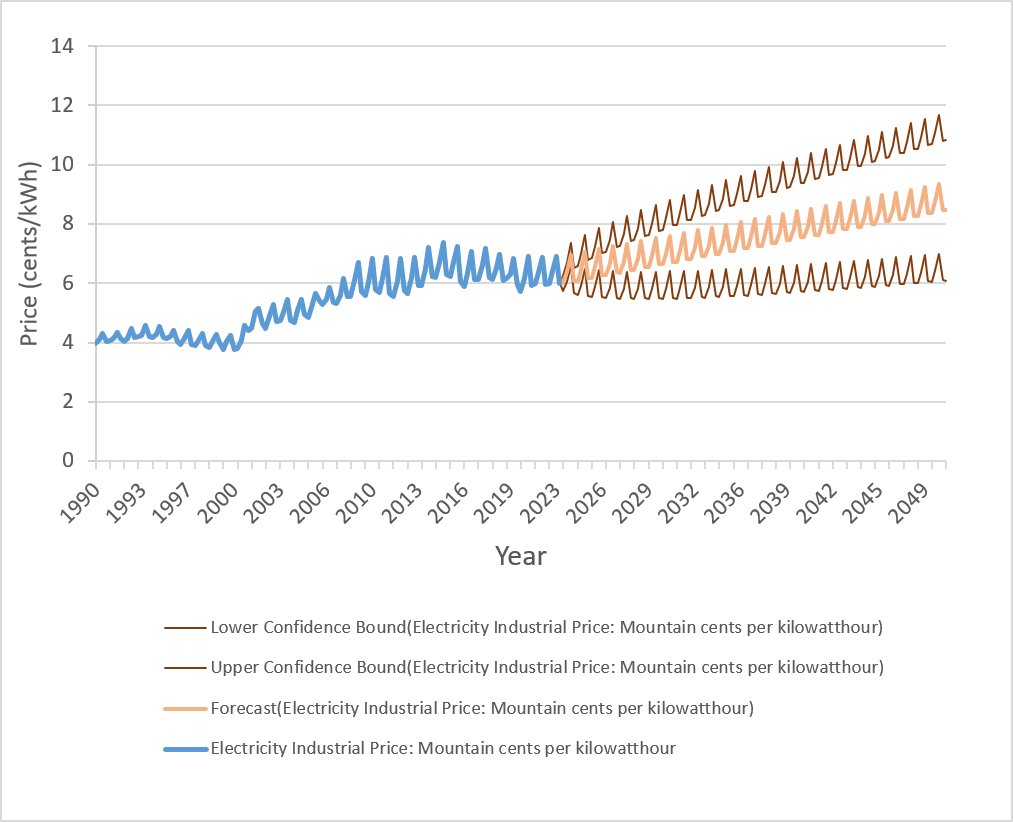
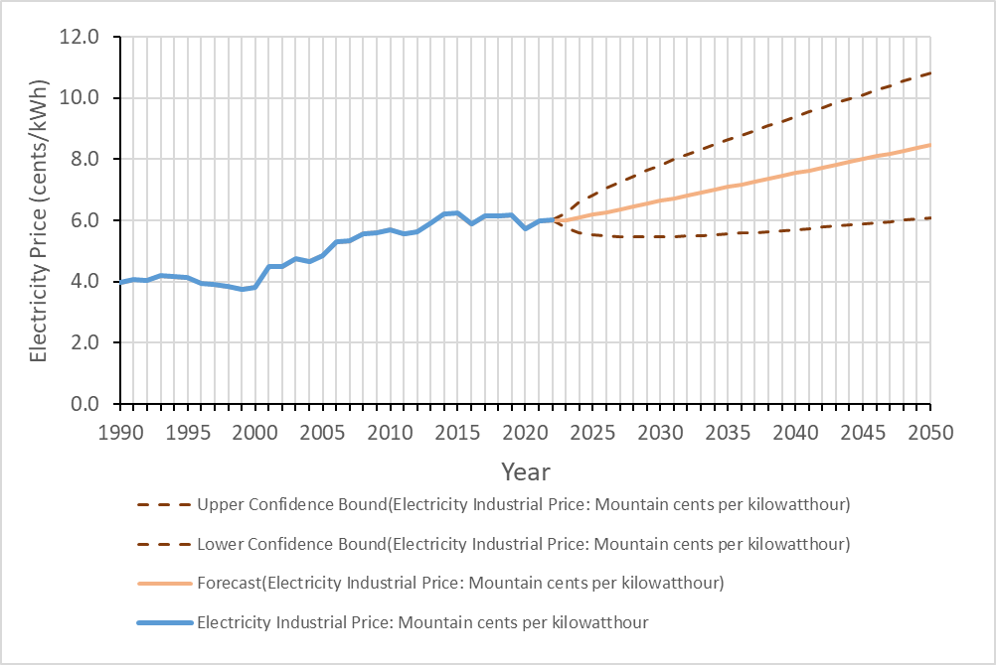
in uncertainties for cost model

Changed region(s): [[0.0, 0.0301, 0.9649, 0.7218], [0.1245, 0.7519, 0.8715, 0.9624]]

diff --git a/templates/chap4.tex b/templates/chap4.tex
@@ -340,11 +340,44 @@ Contract rate above wholesale & 50\% & \citep{pnm_public_2014} \\ \hline
 
 \subsubsection{Electricity Price}
 
-Electricity prices are referenced from the industrial electricity price forecast for the Mountain region (includes New Mexico) provided by the EIA in their \acrlong{steo} (\acrshort{steo}) projections out to 2023 \citep{eia_short-term_2021}. While industrial pricing differs slightly from wholesale, it more closely mimics wholesale prices than residential or commercial rates and was therefore selected as a wholesale proxy for the cost model. The Forecast Tool in Excel projected prices out to 2050 (Figure \ref{fig:electricity_pricing}). This tool uses the Exponential Triple Smoothing algorithm with seasonality patterns to forecast time series data \citep{microsoft_forecastets_2021}. For the deterministic cost model, electricity prices are directly sampled from the forecast and multiplied by the PPA \textit{Contract rate above wholesale} value listed in Table \ref{tab:cm_econ_params} for any year when capacity increases. This simulates amending the PPA with a local utility whenever new capacity is available for power sales. Electricity pricing is held flat compared to the previous year when no capacity change occurs.
+Electricity prices are referenced from the industrial electricity price forecast for the Mountain region (including New Mexico) provided by the EIA in their \acrlong{steo} (\acrshort{steo}) projections out to 2023 \citep{eia_short-term_2021}. While industrial pricing differs slightly from wholesale, it more closely mimics wholesale prices than residential or commercial rates and was therefore selected as a wholesale proxy for the cost model. The Forecast Tool in Excel projected prices out to 2050 with 95\% confidence bounds (Figure \ref{fig:electricity_pricing}) using the Exponential Triple Smoothing algorithm for time series data \citep{microsoft_forecastets_2021}. For the deterministic cost model, electricity prices are directly sampled from the forecast for any year when capacity increases and multiplied by the PPA \textit{Contract rate above wholesale} value listed in Table \ref{tab:cm_econ_params}. This simulates amending the PPA with a local utility whenever new capacity is available for power sales. Electricity pricing is held flat compared to the previous year when no capacity change occurs.
 
 \begin{figure}[!htp]
 \centering
-\includegraphics[width=\textwidth]{templates/images/Figure-EIA_Electricity_Forecast.png}
-\caption[Electricity price forecast]{Price of electricity forecast based on EIA Short-Term Energy Outlook \protect\citep{eia_short-term_2021}. A seasonal signal is visible due to the quarterly sampling of the data.}
+\includegraphics[width=.8\textwidth]{templates/images/Figure-EIA_Electricity_Forecast.png}
+\caption[Electricity price forecast]{Price of electricity from the EIA Short-Term Energy Outlook \protect\citep{eia_short-term_2021}, forecast out to 2050.}
 \label{fig:electricity_pricing}
 \end{figure}
+
+\subsection{Uncertainties}
+
+The model described thus far takes a deterministic approach; parameter values are fixed to their most-likely values when performing the NPV calculation. A probabilistic approach replaces these static values with distributions and repeatedly samples from those distributions to capture an ensemble of results. This Monte Carlo-style simulation can provide a more realistic assessment of system performance.
+
+However, all variables in the model have some underlying uncertainty, and defining distributions for every variable would add significant complexity to the model with diminishing returns. Variable selection can be performed using sensitivity testing to target the most impactful variables for uncertainty characterization. This helps balance model complexity with representativeness of the physical system. 
+
+Recognizing the full probable range of possible variable values and the scenarios that trigger them requires a deep understanding of the scientific, engineering, and socio-technical elements influencing a system. For geothermal, subsurface characterization uncertainties play an important role, but so do uncertainties tied to public policy and market dynamics. The limited focus on the issues listed below should be considered fit-for-purpose for this thesis. Further analysis and discussion with subject matter experts on the local, state, and national levels is advised for similar analysis performed for an active geothermal project.
+
+\subsubsection{Carbon Taxation}
+\begin{wrapfigure}{R}{0.5\linewidth}
+\centering
+\includegraphics[scale=0.6]{templates/images/Figure-Carbon_Tax_Price_Impact.png}
+\singlespacing
+\caption[Carbon tax price impact]{National average retail electricity price changes with benchmark levels of carbon taxation, after \protect\citep[Fig.\ 30]{larson_energy_2018}.}
+\label{fig:carbon_tax_pricing}
+\end{wrapfigure}
+
+One proposal for advancing the energy transition to more renewable and sustainable energy solutions involves a carbon tax levied on fossil fuels. The SIPA Center on Global Energy Policy at Columbia University recently studied three analytical scenarios based on federal agency benchmark taxation rates of \$14/ton, \$50/ton, and \$73/ton CO$_2$ equivalent with annual percentage rate increases of 3, 2, and 1.5\%, respectively \citep{larson_energy_2018} (Figure \ref{fig:carbon_tax_pricing}). Their analysis forecasts the impact on electricity pricing out to 2030, with relatively steady-state implications that depend on the specified carbon tax rate. In all taxation cases, electricity prices increase over the present-day, no-tax scenario, likewise boosting the value of a zero-emissions geothermal power relative to fossil fuel-based options. The selected value range for sensitivity testing was a 0-28\% increase in wholesale price, which matches Figure \ref{fig:carbon_tax_pricing}.
+
+\subsubsection{Future Electrification}
+NREL published a report earlier this year outlining the potential impact of heightened public trends away from non-electric sources of consumed energy, otherwise known as widespread electrification \citep{murphy_electrification_2021}. Some key findings include: (i) end-use natural gas consumption decreases, but so do natural gas prices, which can lead to an increase in natural gas-fueled power plants -- assuming no curtailments due to fossil fuel policies, (ii) deployment of renewables will intensify overall, and (iii) local resources, potentially including new renewable electricity generation facilities, will be relied on to mitigate the need for long-distance electricity transmission \citep{murphy_electrification_2021}.
+
+\begin{wrapfigure}{R}{0.6\linewidth}
+\centering
+\includegraphics[scale=0.65]{templates/images/Figure-EFS_SIPA_Results.png}
+\singlespacing
+\caption[Electrification price impact]{Wholesale electricity price forecasts for high future electrification scenarios: base case (blue), constant renewable technology cost (orange), and low renewable technology cost (green). Cases are from the NREL Electrification Futures Study \protect\citep{murphy_electrification_2021}. Figure is adapted from interactive plots at https://cambium.nrel.gov/? project=fc00a185-f280-47d5-a610-2f892c296e51.}
+\label{fig:EFS_electricification}
+\end{wrapfigure}
+The issue of national electrification is quite complex, particularly in the interplay between the natural gas market and renewables. Additional dependencies include infrastructure upgrades and development to handle growing capacity, as well as local effects (e.g., permitting, water or electrical transmission, community support) that act as enablers or hurdles to building a new renewable-fueled power plant or expanding on existing power facilities. One way to simplify a model representation of widespread electrification is to incorporate swings in electricity prices similar to the scenarios shown in Figure \ref{fig:EFS_electricification} with the caveat that other related factors (e.g., federal and state-level incentive programs or infrastructure improvements) can also influence the bottom line for a geothermal project. Based on NREL projections, wholesale electricity pricing in 2050 could vary from 0.65 to 1.25 times the prices recorded in 2018. Using the High Future Electrification (HFE) Base Case as a reference, prices are 25\% greater by 2050 for the HFE Constant Renewable Technology Costs case and prices drop by 35\% for the HFE Low Renewable Technology Costs case (Figure \ref{fig:EFS_electricification}). Therefore, +25\% and -35\% define the range of price factors used for sensitivity testing.
+
+\subsubsection{Future Electrification}
